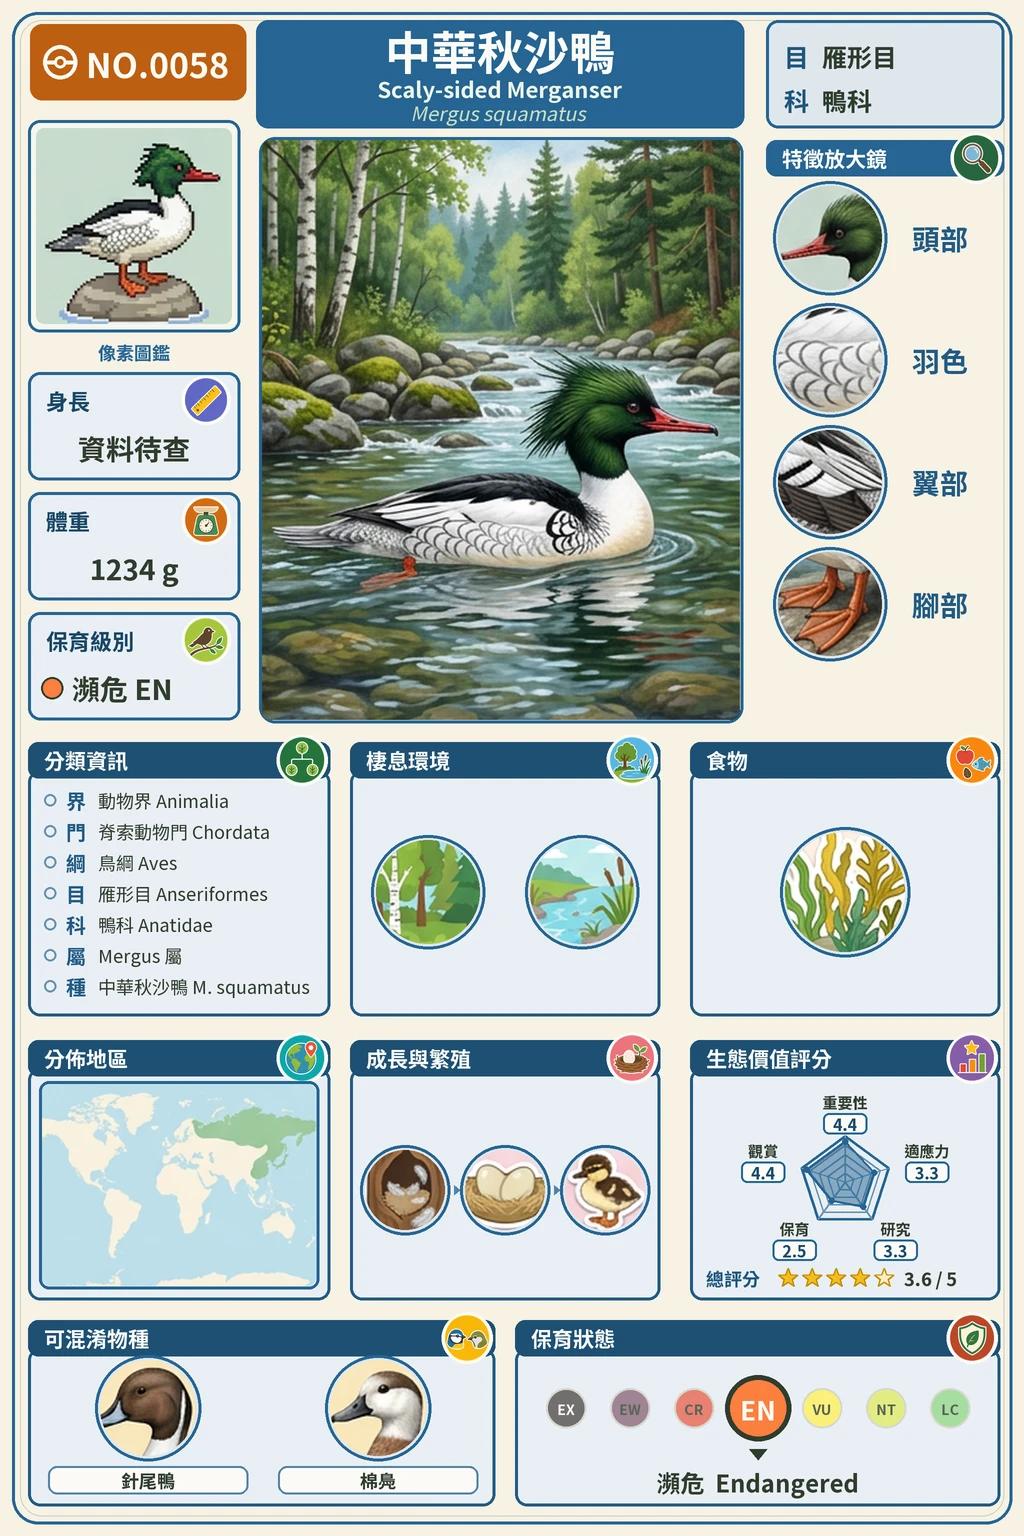
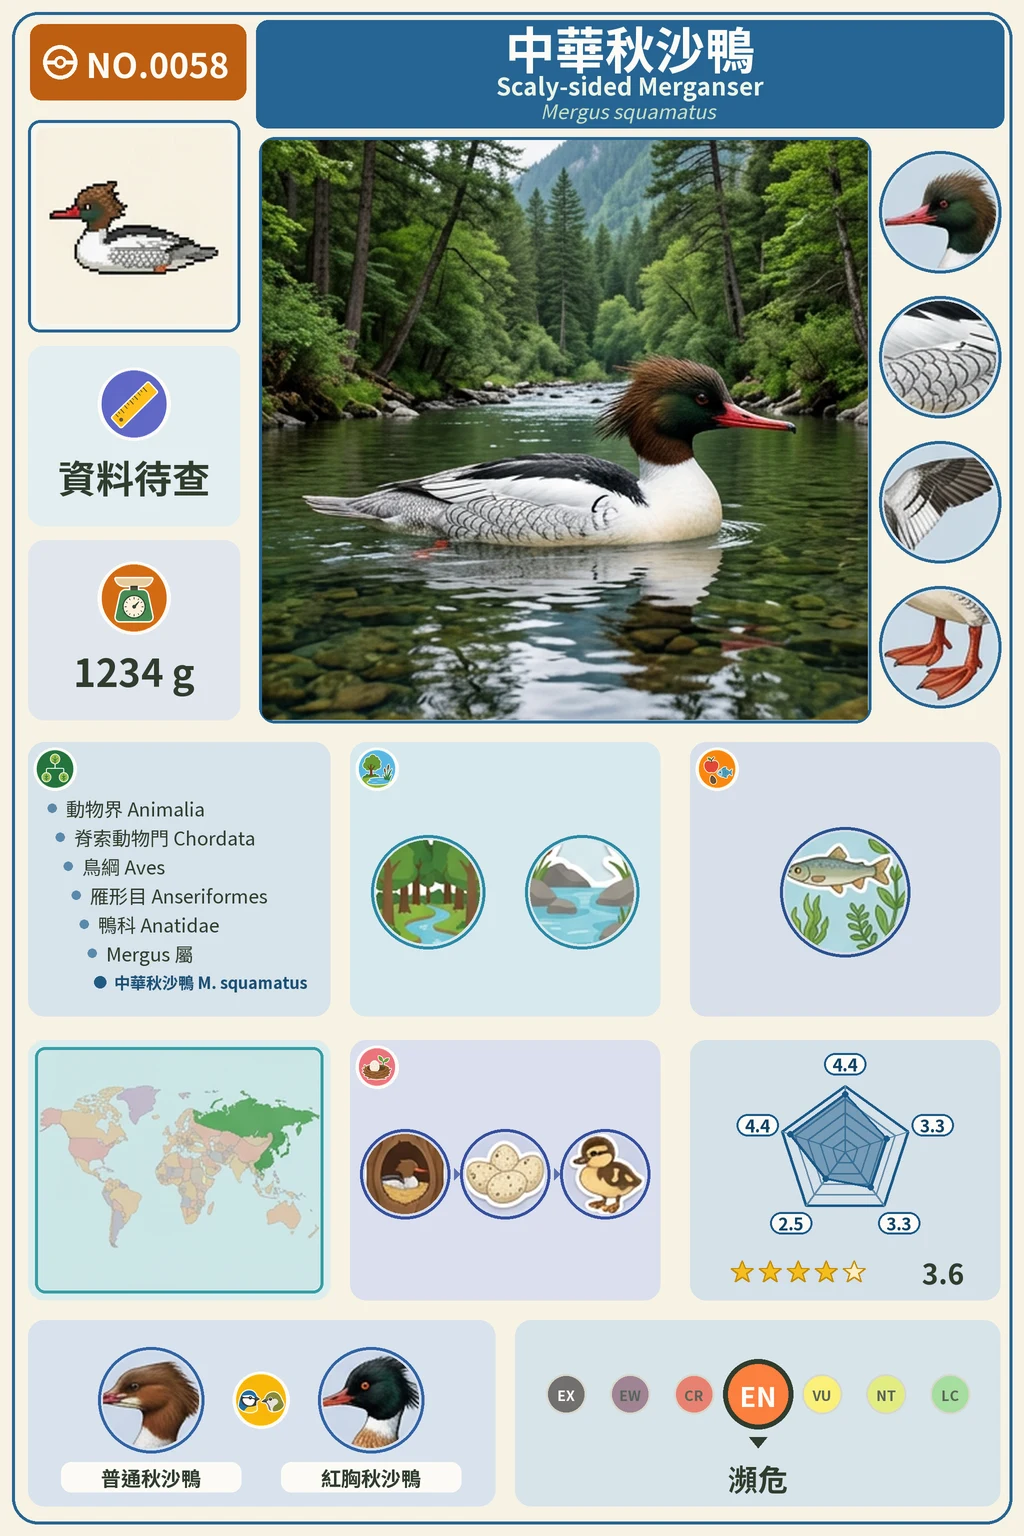
card layout v2: remove panel titles/labels/duplicates, flat fields, stepped taxonomy, bigger name/zoom circles

diff --git a/scripts/cards/compose-card.py b/scripts/cards/compose-card.py
@@ -68,24 +68,20 @@ INFO = {'LC': ('無危', 'Least Concern'), 'NT': ('近危', 'Near Threatened'), 
 
 # ── 版面（1× 座標，1024×1536）────────────────────────────
 PIXEL = (28, 120, 240, 332)
-PHOTO = (262, 140, 740, 720)
-ZOOM_C = [(830, 238 + i * 122, 52) for i in range(4)]
-ZOOM_LABELS = ['頭部', '羽色', '翼部', '腳部']
+PHOTO = (262, 140, 868, 720)
+ZOOM_C = [(940, 212 + i * 145, 56) for i in range(4)]
 COLS = [(28, 330), (350, 660), (690, 1000)]
 Y1, Y1E = 742, 1016
 Y2, Y2E = 1040, 1300
 Y3, Y3E = 1320, 1506
-MAP = (42, Y2 + 44, 316, Y2E - 14)
-STATS = [(372, 'len', '身長'), (492, 'mass', '體重'), (612, 'level', '保育級別')]
+MAP = (38, Y2 + 10, 320, Y2E - 10)
+STATS = [(346, 'len'), (540, 'mass')]          # (y0, key)，每格高 180；v2：不印欄位名，只靠圖示＋數字
+GROW_Y = Y2 + 134
+SIM_X = (151, 371)
+SIM_Y = 1400
 
 
-def tag_positions(n):          # 棲息環境：圓圈＋下方短標籤
-    row = lambda xs, y: [(x, y) for x in xs]
-    return {1: row([155], 140), 2: row([78, 232], 140),
-            3: row([78, 232], 96) + [(155, 206)], 4: row([78, 232], 96) + row([78, 232], 206)}.get(n, [])
-
-
-def diet_positions(n):         # 食物：只有圖，圓圈放大置中
+def diet_positions(n):         # 食物／棲息：只有圖，圓圈放大置中
     return {1: [(155, 150, 60)], 2: [(78, 150, 52), (232, 150, 52)],
             3: [(78, 104, 46), (232, 104, 46), (155, 214, 46)],
             4: [(78, 104, 46), (232, 104, 46), (78, 214, 46), (232, 214, 46)]}.get(n, [])
@@ -102,8 +98,8 @@ def slots(f):
     dx0 = COLS[2][0]
     out += [(f'diet{i}', 'circle', (dx0 + dx, Y1 + dy, r), r + 3.5) for i, (dx, dy, r) in enumerate(diet_positions(min(4, len(f['diet']))))]
     gx = COLS[1][0]
-    out += [(f'grow{i}', 'circle', (gx + 55 + i * 100, Y2 + 150, 40), 43.5) for i in range(3)]
-    out += [(f'sim{i}', 'circle', (148 + i * 230, 1408, 48), 51.5) for i in range(2)]
+    out += [(f'grow{i}', 'circle', (gx + 55 + i * 100, GROW_Y, 40), 43.5) for i in range(3)]
+    out += [(f'sim{i}', 'circle', (SIM_X[i], SIM_Y, 48), 51.5) for i in range(2)]
     return out
 
 
@@ -253,12 +249,12 @@ class Canvas:
         return self.img.resize((W * scale, H * scale), Image.LANCZOS)
 
 
-def panel(cv, x0, y0, x1, y1, title, key):
+def panel(cv, x0, y0, x1, y1, key, icon=True):
+    """v2：整塊平塗淺色底，無標題條、無框線；圖示（可有可無）縮成角落一個小章。"""
     col = COL[key]
-    cv.rr((x0, y0 + 28, x1, y1), 12, fill=tint(col, 0.9), outline=mix(col, (0, 0, 0), 0.1), width=3)
-    cv.rr((x0, y0, x1, y0 + 36), 10, fill=dark(col, 0.2))
-    cv.text(x0 + 16, y0 + 18, title, 21, WHITE)
-    cv.icon(key, x1 - 28, y0 + 18, 46)
+    cv.rr((x0, y0, x1, y1), 16, fill=tint(col, 0.82))
+    if icon:
+        cv.icon(key, x0 + 27, y0 + 27, 38)
 
 
 # ── 導引圖：只有空框、零文字 ───────────────────────────
@@ -311,122 +307,104 @@ def compose(f, art, out_scale=None):
     art = art_hi.resize((W, H), Image.LANCZOS) if art_hi is not None else None   # 只用於對位檢查
     cv = Canvas()
     cv.rr((12, 12, W - 12, H - 12), 26, outline=GREEN, width=3)
-    cv.rr((20, 20, W - 20, H - 20), 22, outline=(200, 208, 190), width=1)
     code = f['iucn']['code']
     zh, en = INFO.get(code, ('資料待查', ''))
     cur = dict(SCALE).get(code)
 
-    # 編號
+    # 編號（全卡唯一的暖色強調）
     cv.rr((30, 24, 246, 100), 12, fill=HDR['no'])
     cv.circ(60, 62, 17, outline=WHITE, width=4)
     cv.line([(43, 62), (77, 62)], WHITE, 4)
     cv.circ(60, 62, 6, fill=HDR['no'], outline=WHITE, width=3)
     cv.text(86, 63, 'NO.' + f['id'], 34, WHITE, anchor='lm', maxw=150)
-    # 名稱帶
-    cv.rr((256, 20, 744, 128), 12, fill=HDR['title'])
-    cv.text(500, 50, f['z'], 46, WHITE, anchor='mm', maxw=440)
-    cv.text(500, 88, f['e'], 22, (236, 244, 230), bold=True, anchor='mm', maxw=450)
-    cv.text(500, 112, f['s'], 20, (200, 224, 196), bold=False, anchor='mm', maxw=450, italic=True)
-    # 目／科
-    c = HDR['tax']
-    cv.rr((766, 20, 1004, 128), 12, fill=tint(c, 0.85), outline=c, width=3)
-    for i, (lab, v) in enumerate([('目', f['order'][0]), ('科', f['family'][0])]):
-        y = 56 + i * 44
-        cv.text(784, y, lab, 25, dark(c, 0.15))
-        cv.text(822, y, v or '資料待查', 25, INK, maxw=170)
+    # 名稱帶：拉闊到右邊，目／科（重複資訊）移走，名字字級加大
+    cv.rr((256, 20, 1004, 128), 12, fill=HDR['title'])
+    cv.text(630, 47, f['z'], 50, WHITE, anchor='mm', maxw=700)
+    cv.text(630, 85, f['e'], 24, (236, 244, 230), bold=True, anchor='mm', maxw=700)
+    cv.text(630, 110, f['s'], 20, (200, 224, 196), bold=False, anchor='mm', maxw=700, italic=True)
 
-    # 像素圖
-    c = COL['tax']
-    cv.rr((PIXEL[0] - 0, PIXEL[1], PIXEL[2], PIXEL[3]), 12, fill=(246, 246, 238), outline=GREEN, width=3)
-    cv.text(134, 352, '像素圖鑑', 18, GREEN, anchor='mm')
+    # 像素圖（不印說明字）
+    cv.rr(PIXEL, 12, fill=(246, 246, 238), outline=GREEN, width=3)
     # 主照片框
     cv.rr((PHOTO[0] - 3, PHOTO[1] - 3, PHOTO[2] + 3, PHOTO[3] + 3), 16, outline=GREEN, width=3)
-    # 特徵放大鏡
+    # 四個特徵圓：只有圓圈，不印頭部／羽色／翼部／腳部
     c = COL['zoom']
-    cv.rr((766, 140, 1004, 176), 10, fill=HDR['zoom'])
-    cv.text(782, 158, '特徵放大鏡', 21, WHITE)
-    cv.icon('zoom', 976, 158, 46)
-    for (cx, cy, r), lab in zip(ZOOM_C, ZOOM_LABELS):
-        cv.circ(cx, cy, r + 5, fill=tint(c, 0.85), outline=c, width=3)
-        cv.text(940, cy, lab, 28, dark(c, 0.1), anchor='mm')
+    for (cx, cy, r) in ZOOM_C:
+        cv.circ(cx, cy, r + 5, fill=tint(c, 0.8), outline=c, width=3)
 
-    # 三個數值
-    vals = {'len': f['len'], 'mass': f['mass'], 'level': (zh + ' ' + code) if code in INFO else zh}
-    for y, key, lab in STATS:
-        c = COL[key] if key != 'level' else (cur or COL['level'])
+    # 身長／體重：圖示＋大數字，不印欄位名
+    vals = {'len': f['len'], 'mass': f['mass']}
+    for y, key in STATS:
         c0 = COL[key]
-        cv.rr((28, y, 240, y + 108), 12, fill=tint(c0, 0.9), outline=c0, width=3)
-        cv.text(46, y + 28, lab, 22, dark(c0, 0.3))
-        cv.icon(key, 206, y + 28, 44)
-        if key == 'level':
-            cv.circ(52, y + 76, 11, fill=c, outline=INK, width=2)
-            cv.text(72, y + 76, vals[key], 28, INK, anchor='lm', maxw=150)
-        else:
-            cv.text(134, y + 76, vals[key], 28, INK, anchor='mm', maxw=190)
+        cv.rr((28, y, 240, y + 180), 16, fill=tint(c0, 0.86))
+        cv.icon(key, 134, y + 58, 68)
+        cv.text(134, y + 130, vals[key], 38, INK, anchor='mm', maxw=190)
 
-    # 分類資訊
+    # 分類：不印標題與「界門綱…」字；用縮排階梯表示層級，最後一行（種）加粗
     x0, x1 = COLS[0]
-    panel(cv, x0, Y1, x1, Y1E, '分類資訊', 'tax')
+    panel(cv, x0, Y1, x1, Y1E, 'tax')
     g = f['genus']
-    rows = [('界', '動物界 Animalia'), ('門', '脊索動物門 Chordata'), ('綱', '鳥綱 Aves'),
-            ('目', ' '.join(filter(None, f['order'])) or '資料待查'), ('科', ' '.join(filter(None, f['family'])) or '資料待查'),
-            ('屬', (g + ' 屬') if g else '資料待查'),
-            ('種', f['z'] + (' ' + g[0] + '. ' + f['epithet'] if g and f['epithet'] else ''))]
+    rows = ['動物界 Animalia', '脊索動物門 Chordata', '鳥綱 Aves',
+            ' '.join(filter(None, f['order'])) or '資料待查', ' '.join(filter(None, f['family'])) or '資料待查',
+            (g + ' 屬') if g else '資料待查',
+            f['z'] + (' ' + g[0] + '. ' + f['epithet'] if g and f['epithet'] else '')]
     c = COL['tax']
-    for i, (k, v) in enumerate(rows):
-        y = Y1 + 58 + i * 31
-        cv.circ(50, y, 6, outline=mix(c, WHITE, 0.3), width=2)
-        cv.text(66, y, k, 20, dark(c, 0.1))
-        cv.text(98, y, v, 18, INK, bold=False, maxw=222)
+    for i, v in enumerate(rows):
+        y = Y1 + 66 + i * 29 if i == 0 else Y1 + 66 + i * 29
+        x = x0 + 24 + i * 8
+        last = i == len(rows) - 1
+        cv.circ(x, y, 4.5 if not last else 6, fill=mix(c, WHITE, 0.25) if not last else dark(c, 0.1))
+        cv.text(x + 14, y, v, 19 if not last else 21, INK if not last else dark(c, 0.2), bold=last, maxw=x1 - x - 24)
 
     # 棲息環境（只放圖）
     x0, x1 = COLS[1]
-    panel(cv, x0, Y1, x1, Y1E, '棲息環境', 'hab')
+    panel(cv, x0, Y1, x1, Y1E, 'hab')
     c = COL['hab']
     hab = f['hab'][:4]
     if not hab:
         cv.text((x0 + x1) / 2, Y1 + 150, '資料待查', 24, mix(INK, WHITE, 0.2), anchor='mm')
     for dx, dy, r in diet_positions(len(hab)):
-        cv.circ(x0 + dx, Y1 + dy, r + 5, fill=tint(c, 0.85), outline=c, width=3)
+        cv.circ(x0 + dx, Y1 + dy, r + 5, fill=tint(c, 0.8), outline=c, width=3)
 
     # 食物（只放圖）
     x0, x1 = COLS[2]
-    panel(cv, x0, Y1, x1, Y1E, '食物', 'diet')
+    panel(cv, x0, Y1, x1, Y1E, 'diet')
     c = COL['diet']
     diet = f['diet'][:4]
     if not diet:
         cv.text((x0 + x1) / 2, Y1 + 150, '資料待查', 24, mix(INK, WHITE, 0.2), anchor='mm')
     for dx, dy, r in diet_positions(len(diet)):
-        cv.circ(x0 + dx, Y1 + dy, r + 5, fill=tint(c, 0.85), outline=c, width=3)
+        cv.circ(x0 + dx, Y1 + dy, r + 5, fill=tint(c, 0.8), outline=c, width=3)
 
-    # 分佈地區
+    # 分佈：整格就是地圖，無標題、無圖示
     x0, x1 = COLS[0]
-    panel(cv, x0, Y2, x1, Y2E, '分佈地區', 'map')
+    panel(cv, x0, Y2, x1, Y2E, 'map', icon=False)
     cv.rr((MAP[0] - 3, MAP[1] - 3, MAP[2] + 3, MAP[3] + 3), 10, outline=COL['map'], width=3)
 
     # 成長與繁殖（只放圖）
     x0, x1 = COLS[1]
-    panel(cv, x0, Y2, x1, Y2E, '成長與繁殖', 'grow')
+    panel(cv, x0, Y2, x1, Y2E, 'grow')
     c = COL['grow']
     for i in range(3):
-        cv.circ(x0 + 55 + i * 100, Y2 + 150, 45, fill=tint(c, 0.85), outline=c, width=3)
+        cv.circ(x0 + 55 + i * 100, GROW_Y, 45, fill=tint(c, 0.8), outline=c, width=3)
         if i < 2:
-            cv.poly([(x0 + 55 + i * 100 + 49, Y2 + 145), (x0 + 55 + i * 100 + 55, Y2 + 150), (x0 + 55 + i * 100 + 49, Y2 + 155)], fill=mix(c, WHITE, 0.2))
+            ax = x0 + 55 + i * 100 + 49
+            cv.poly([(ax, GROW_Y - 6), (ax + 6, GROW_Y), (ax, GROW_Y + 6)], fill=mix(c, WHITE, 0.2))
 
-    # 生態價值評分（雷達）
+    # 評分（雷達）：不印維度名；頂點只有分數；總分＝星＋數字
     x0, x1 = COLS[2]
-    panel(cv, x0, Y2, x1, Y2E, '生態價值評分', 'radar')
+    panel(cv, x0, Y2, x1, Y2E, 'radar', icon=False)
     c = COL['radar']
-    cx, cy, R = x0 + 155, Y2 + 142, 46
+    cx, cy, R = x0 + 155, Y2 + 112, 66
     sc = f['score']
-    names = [('重要性', 'i'), ('適應力', 'a'), ('研究', 'r'), ('保育', 'c'), ('觀賞', 'v')]
+    keys = ['i', 'a', 'r', 'c', 'v']
     ang = [-math.pi / 2 + i * 2 * math.pi / 5 for i in range(5)]
     for lv in (1, 2, 3, 4, 5):
         cv.poly([(cx + R * lv / 5 * math.cos(a), cy + R * lv / 5 * math.sin(a)) for a in ang],
                 outline=c if lv == 5 else mix(c, WHITE, 0.3), width=2.6 if lv == 5 else 1.3)
     for a in ang:
         cv.line([(cx, cy), (cx + R * math.cos(a), cy + R * math.sin(a))], mix(c, WHITE, 0.3), 1.4)
-    pv = [float(sc[k]) if sc[k] else 0 for _, k in names]
+    pv = [float(sc[k]) if sc[k] else 0 for k in keys]
     pts = [(cx + R * v / 5 * math.cos(a), cy + R * v / 5 * math.sin(a)) for v, a in zip(pv, ang)]
     ov = Image.new('RGBA', cv.img.size, (0, 0, 0, 0))
     ImageDraw.Draw(ov).polygon([tuple(cv.s(p)) for p in pts], fill=c + (130,))
@@ -435,46 +413,46 @@ def compose(f, art, out_scale=None):
     cv.poly(pts, outline=c, width=2.5)
     for p in pts:
         cv.circ(p[0], p[1], 3, fill=c)
-    for (nm, k), a in zip(names, ang):
-        lx, ly = cx + (R + 40) * math.cos(a), cy + (R + 24) * math.sin(a)
-        cv.text(lx, ly - 10, nm, 15, INK, anchor='mm')
-        v = sc[k] or '待查'
-        cv.rr((lx - 22, ly + 1, lx + 22, ly + 22), 6, fill=WHITE, outline=c, width=2)
-        cv.text(lx, ly + 12, v, 16, dark(c, 0.25), anchor='mm')
-    cv.text(x0 + 16, Y2E - 22, '總評分', 18, dark(c, 0.15))
+    for k, a in zip(keys, ang):
+        lx, ly = cx + (R + 26) * math.cos(a), cy + (R + 22) * math.sin(a)
+        v = sc[k] or '?'
+        cv.rr((lx - 21, ly - 11, lx + 21, ly + 11), 11, fill=WHITE, outline=c, width=2)
+        cv.text(lx, ly, v, 17, dark(c, 0.25), anchor='mm')
     try:
         n = max(0, min(5, round(float(sc['o']))))
     except (TypeError, ValueError):
         n = None
+    yS = Y2E - 28
     for i in range(5):
-        cv.star(x0 + 98 + i * 24, Y2E - 22, 10, (244, 190, 30) if n is not None and i < n else tint((244, 190, 30), 0.75), (196, 140, 10))
-    cv.text(x0 + 214, Y2E - 22, (sc['o'] + ' / 5') if sc['o'] else '資料待查', 18, INK, maxw=76)
+        cv.star(x0 + 52 + i * 28, yS, 11.5, (244, 190, 30) if n is not None and i < n else tint((244, 190, 30), 0.75), (196, 140, 10))
+    cv.text(x0 + 232, yS, sc['o'] or '?', 28, INK, anchor='lm', maxw=70)
 
-    # 可混淆物種
-    panel(cv, 28, Y3, 495, Y3E, '可混淆物種', 'sim')
+    # 可混淆物種：無標題；兩圓之間放一個「像」符號（沿用眼鏡圖示）
+    panel(cv, 28, Y3, 495, Y3E, 'sim', icon=False)
     c = COL['sim']
+    cv.icon('sim', 261, SIM_Y, 52)
     for i in range(2):
-        cx = 148 + i * 230
-        cv.circ(cx, 1408, 53, fill=tint(c, 0.85), outline=c, width=3)
+        cx = SIM_X[i]
+        cv.circ(cx, SIM_Y, 53, fill=tint(c, 0.8), outline=c, width=3)
         nm = f['sim'][i] if i < len(f['sim']) else ''
         if nm:
-            cv.rr((cx - 100, 1466, cx + 100, 1494), 9, fill=WHITE, outline=mix(c, WHITE, 0.2), width=2)
-            cv.text(cx, 1480, nm, 18, INK, anchor='mm', maxw=188)
+            cv.rr((cx - 90, 1462, cx + 90, 1492), 10, fill=WHITE)
+            cv.text(cx, 1477, nm, 20, INK, anchor='mm', maxw=170)
 
-    # 保育狀態（IUCN 色階）
-    panel(cv, 515, Y3, 1000, Y3E, '保育狀態', 'cons')
-    cy = 1408
+    # 保育狀態：IUCN 色階＋中文名（不印英文、不印標題）
+    panel(cv, 515, Y3, 1000, Y3E, 'cons', icon=False)
+    cy = 1394
     for i, (k, col) in enumerate(SCALE):
         x = 566 + i * 64
         if k == code:
-            cv.circ(x, cy, 33, fill=col, outline=INK, width=5)
-            cv.text(x, cy + 1, k, 26, WHITE if sum(col) < 450 else INK, anchor='mm')
-            cv.poly([(x - 9, cy + 41), (x + 9, cy + 41), (x, cy + 52)], fill=INK)
+            cv.circ(x, cy, 35, fill=col, outline=INK, width=5)
+            cv.text(x, cy + 1, k, 27, WHITE if sum(col) < 450 else INK, anchor='mm')
+            cv.poly([(x - 9, cy + 43), (x + 9, cy + 43), (x, cy + 54)], fill=INK)
         else:
             soft = mix(col, WHITE, 0.45)
             cv.circ(x, cy, 20, fill=soft, outline=(215, 215, 205), width=2)
             cv.text(x, cy + 1, k, 14, WHITE if sum(soft) < 420 else (90, 100, 88), anchor='mm')
-    cv.text(758, 1482, (zh + '  ' + en) if en else zh, 24, INK, anchor='mm', maxw=440)
+    cv.text(758, 1478, zh, 30, INK, anchor='mm', maxw=440)
 
     # AI 生成的圖貼上（最後貼，蓋在框內）
     base_np = art_np = None
@@ -506,17 +484,17 @@ def art_prompt(f):
         f"IMAGE 1 is a bird information card for {f['z']} ({f['e']}, {f['s']}) that is finished except for its EMPTY PICTURE SLOTS (flat pale-coloured rectangles and circles). Fill ONLY those slots with illustrations. Use correct plumage and bare-part colours for this species; one species only.",
         'Keep everything else in IMAGE 1 exactly as it is: all layout, panels, colours, titles, icons, numbers and text stay untouched at the same positions; do not redraw, move, resize or retype anything. Each picture must fill its slot edge to edge with the subject centred and fully inside the slot (circles: the whole subject inside the circle, nothing cut off by the rim) and contain NO text, letters, numbers or watermarks.',
         'Slots:',
-        '  · Top-left square (under the pokéball number chip): small 16-bit pixel art of the bird, side view, plain light background.',
-        '  · Large centre frame: photorealistic photo of the bird, whole body, in its natural habitat.',
-        '  · Right column, 4 circles top to bottom (頭部/羽色/翼部/腳部): close-ups of (1) head and bill, (2) plumage pattern, (3) folded or spread wing, (4) feet and legs.',
-        '  · 分佈地區 wide frame: flat world map in soft colours with the species range shaded green' + (f" (range: {f.get('range')})" if f.get('range') else '') + '.',
+        '  · Top-left square (under the number chip): small 16-bit pixel art of the bird, side view, plain light background.',
+        '  · Large square frame (centre): photorealistic photo of the bird, whole body, in its natural habitat, bird centred.',
+        '  · Right column, 4 circles top to bottom: close-ups of (1) head and bill, (2) plumage pattern, (3) folded or spread wing, (4) feet and legs.',
+        '  · Lower-left square frame (no title; the frame itself is the map): flat world map in soft colours with the species range shaded green' + (f" (range: {f.get('range')})" if f.get('range') else '') + '.',
     ]
     if hab:
-        L.append('  · 棲息環境 circles (left to right, top to bottom): ' + '; '.join(f'{i + 1}. {h}' for i, h in enumerate(hab)) + ' — colourful flat sticker-style icons (3–4 colours each).')
+        L.append('  · Habitat circles (middle panel of the upper row; left to right, top to bottom): ' + '; '.join(f'{i + 1}. {h}' for i, h in enumerate(hab)) + ' — colourful flat sticker-style icons (3–4 colours each).')
     if diet:
-        L.append('  · 食物 circles (left to right, top to bottom): ' + '; '.join(f'{i + 1}. {h}' for i, h in enumerate(diet)) + ' — colourful flat sticker-style illustrations of the typical food items in natural food colours.')
-    L.append('  · 成長與繁殖 three circles left to right: (1) a nest, (2) eggs, (3) a chick — colourful flat sticker style, typical for this species.')
-    L.append('  · 可混淆物種 two circles: realistic head-and-neck portraits of two different similar species — ' + ' and '.join(f['sim'][:2]) + '.')
+        L.append('  · Food circles (right panel of the upper row; left to right, top to bottom): ' + '; '.join(f'{i + 1}. {h}' for i, h in enumerate(diet)) + ' — colourful flat sticker-style illustrations of the typical food items in natural food colours.')
+    L.append('  · Growth circles (middle panel of the lower row) three circles left to right: (1) a nest, (2) eggs, (3) a chick — colourful flat sticker style, typical for this species.')
+    L.append('  · Bottom-left panel: two circles either side of the small glasses icon: realistic head-and-neck portraits of two different similar species — ' + ' and '.join(f['sim'][:2]) + '.')
     L.append('Style for pictures: clean, bright, crisp, kid-friendly. Do not add anything outside the slots.')
     return '\n'.join(L)
 

diff --git a/docs/CARD-PIPELINE.md b/docs/CARD-PIPELINE.md
@@ -225,3 +225,13 @@ npm run cards:maker      # → tools/card-studio/aviandex-card-maker.html（約 
 - 本 app 569 個「編號」＝566 個不同學名（0021/0312、0009/0445、0456/0457 為重複編號）。
 - 對照 HKBWS《香港鳥類名錄》（Cat I+II，網頁列 584 種，官方公告 588）：學名相同 535 種，加上中文名相同約 548 種；香港名錄有約 36 種我們沒有，我們有約 21–29 個編號不在香港名錄。
 - 另發現多個中文名與英文名／學名不一致的編號（如 0097、0199、0204、0321、0439、0477），需人手核對；見 docs/DATA_ISSUES.md。
+
+
+## 12.y 版面 v2（2026-11-11，少字化）
+
+依 design-review 反 slop 清單：去掉每格標題條、欄位名、染色圖示徽章、重複資訊；字只留「內容本身」。
+- 移除：所有格子標題（分類資訊／棲息環境／食物／分佈地區／成長與繁殖／生態價值評分／可混淆物種／保育狀態／特徵放大鏡）、像素圖鑑說明、身長／體重／保育級別欄位名、頭部／羽色／翼部／腳部、雷達五維名稱、分類的「界門綱目科屬種」字、右上目／科框（與分類格重複）、左側保育級別格（與底部色階重複）、內層細邊線。
+- 保留：名稱帶（中／英／學名，字級加大）、NO. 橙色塊（全卡唯一暖色強調）、分類以縮排階梯＋最後一行加粗表示層級、數值只放圖示＋大字、雷達頂點只放分數＋總分星、保育只留色階＋中文名。
+- 分佈＝整格就是地圖；可混淆物種兩圓中間用眼鏡圖示。
+- 格子＝平塗淺色底、無框線、角落小圖示（分類／棲息／食物／成長）；色相仍依 4 主題＋`SHIFT` 微調。
+- 槽位座標改了（照片 606×580、特徵圓 r56 放右欄、身長／體重各 180 高），舊的 art 圖要重生；`compose-card.py` v1 在 git 歷史（8d16af0 之前）。
